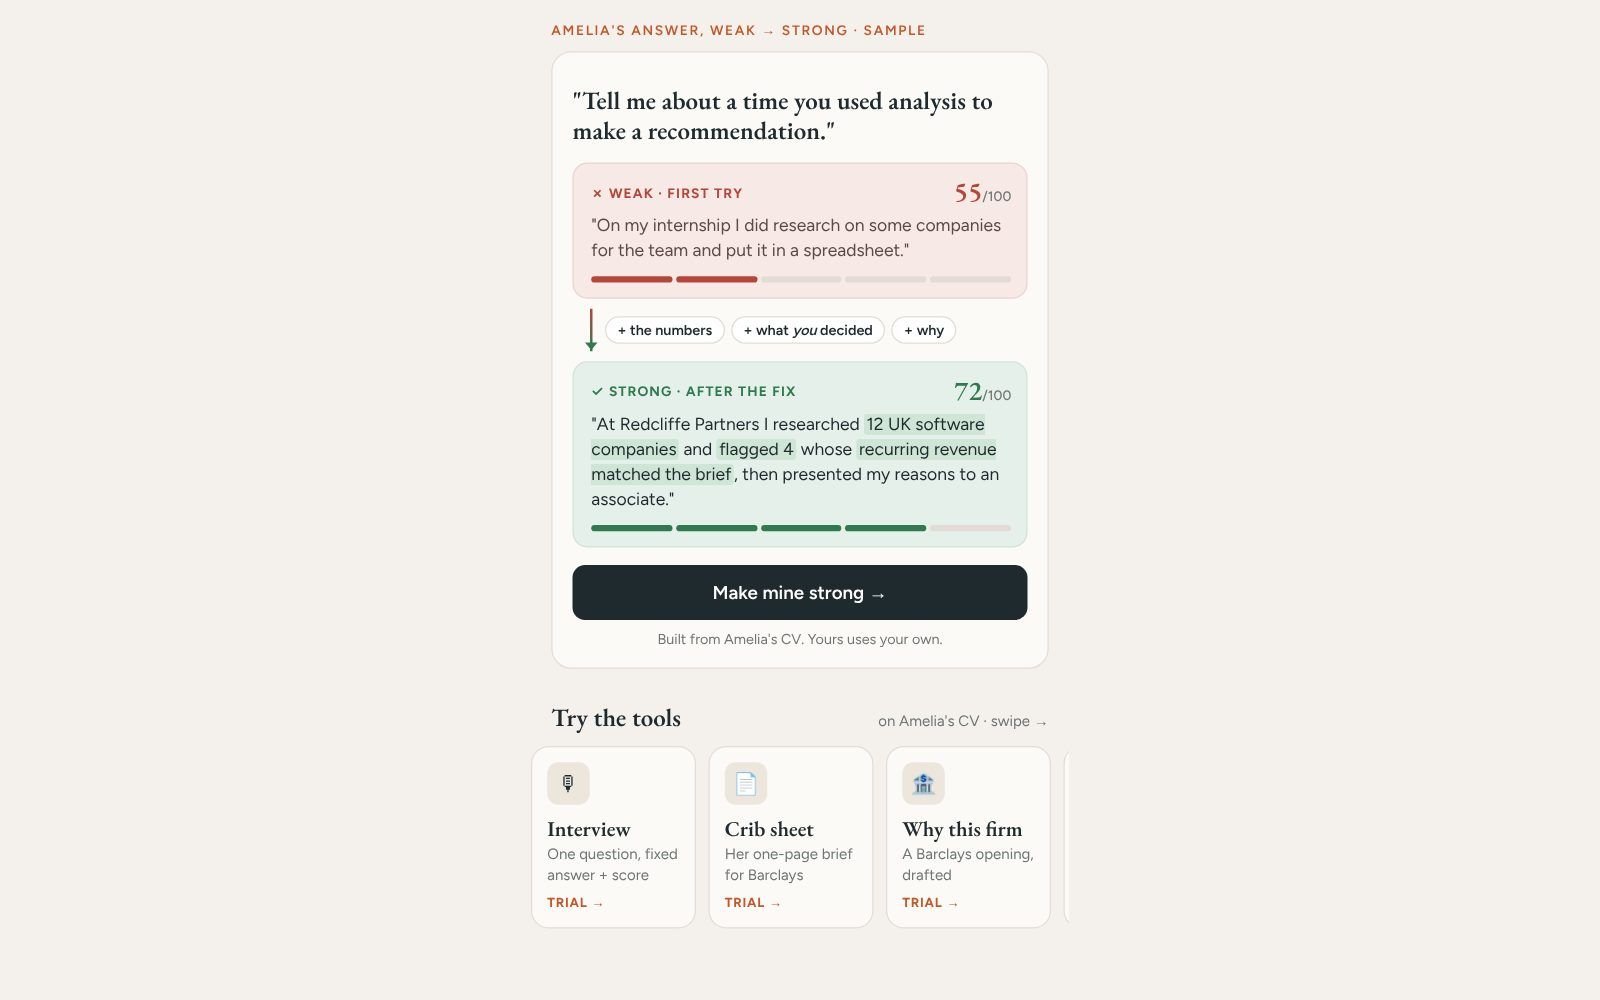
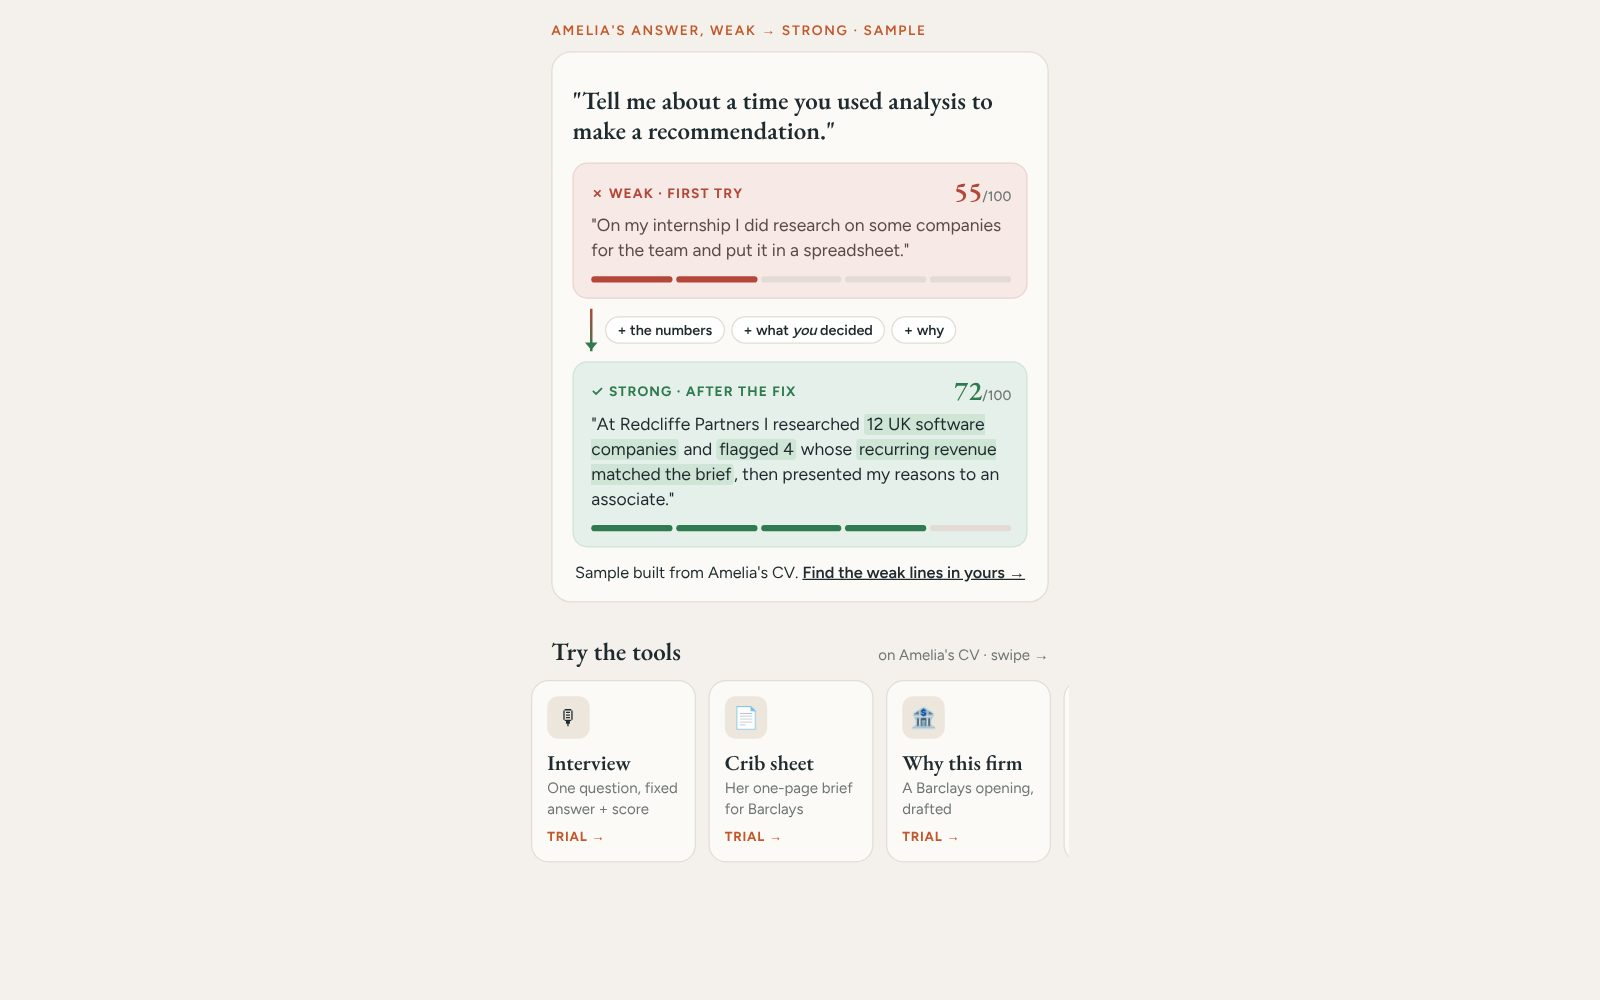
Weak-strong card: no button, link to assessment
Claude-Session: https://claude.ai/code/session_014HX912Q8GYBLs9Jx181D89

diff --git a/design/weak-strong-card-mock.html b/design/weak-strong-card-mock.html
@@ -59,7 +59,6 @@ mark{background:#cfe6d7;color:inherit;border-radius:3px;padding:0 2px}
     <div class="meter"><i class="on"></i><i class="on"></i><i class="on"></i><i class="on"></i><i></i></div>
   </div>
 
-  <a class="btn" href="#">Make mine strong →</a>
-  <div class="note">Built from Amelia's CV. Yours uses your own.</div>
+  <div class="note" style="margin-top:12px;font-size:13px;color:var(--ink)">Sample built from Amelia's CV. <a href="#" style="color:var(--ink);font-weight:600">Find the weak lines in yours →</a></div>
 </div>
 <div class="row-h"><b>Try the tools</b><span>on Amelia's CV · swipe →</span></div><div class="swipe"><div class="tile"><div class="ic">🎙</div><h4>Interview</h4><p>One question, fixed answer + score</p><span class="tr">TRIAL →</span></div><div class="tile"><div class="ic">📄</div><h4>Crib sheet</h4><p>Her one-page brief for Barclays</p><span class="tr">TRIAL →</span></div><div class="tile"><div class="ic">🏦</div><h4>Why this firm</h4><p>A Barclays opening, drafted</p><span class="tr">TRIAL →</span></div><div class="tile"><div class="ic">✏</div><h4>CV line fix</h4><p>One weak line, rewritten</p><span class="tr">TRIAL →</span></div><div class="tile"><div class="ic">🧮</div><h4>Tests</h4><p>5 questions, your result</p><span class="tr">TRIAL →</span></div><div class="tile"><div class="ic">👥</div><h4>Group exercise</h4><p>A 3-minute round</p><span class="tr">TRIAL →</span></div></div></body></html>

diff --git a/CODEX-ALL-24NOV.md b/CODEX-ALL-24NOV.md
@@ -191,7 +191,7 @@
     - **Weak box** (soft red): "✗ Weak · first try", score, her weak answer line, a 5-segment strength meter (2 filled, red).
     - **Connector:** a red→green arrow with 3 chips naming what changed ("+ the numbers", "+ what *you* decided", "+ why"), taken from the fix's change list.
     - **Strong box** (soft green): "✓ Strong · after the fix", score, the fixed line with the added facts highlighted, meter (4 filled, green).
-    - Button [Make mine strong →] opens the interview trial on the same question. Small note: "Built from Amelia's CV. Yours uses your own."
+    - **No button on the card.** One small text line under it: "Sample built from Amelia's CV. **Find the weak lines in yours →**", linking to the free assessment (step 1). The card is proof; the hero and the tools row are the actions.
     - **Real output only:** run Amelia's weak answer and the fixed answer through the actual scorer and rewrite, and store both lines, both scores and the change chips. Never hard-code 55/72 or the wording. Strong-line facts must be from her CV. Re-run if the scorer changes.
     - Meters animate weak → strong once when the card scrolls into view.
     - **"Try the tools" swipe row directly under it** (mock in the same file): heading "Try the tools", hint "on Amelia's CV · swipe →".
